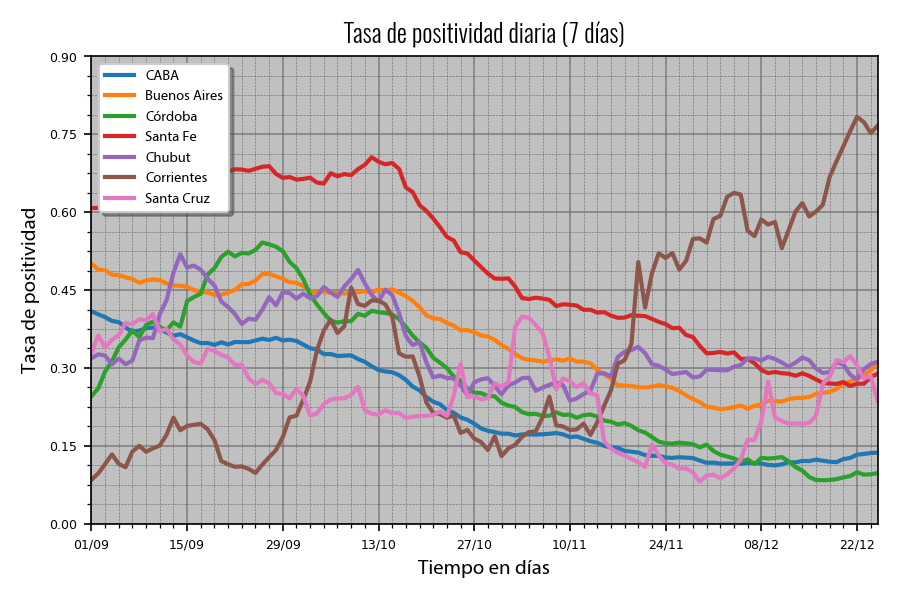
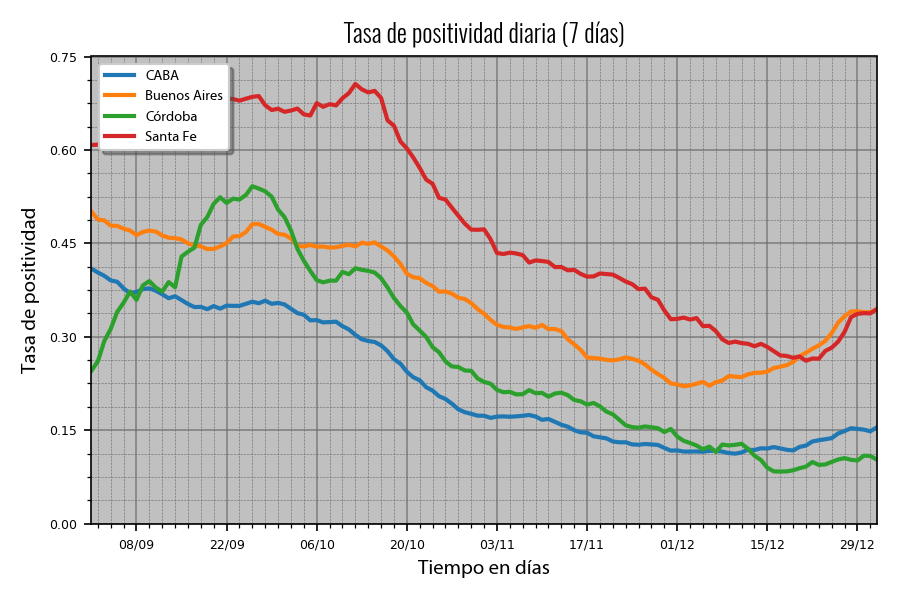
Updating testing charts...

Changed region(s): [[0.0622, 0.09, 0.9956, 0.93], [0.7156, 0.9, 0.7778, 0.93], [0.0622, 0.09, 0.0933, 0.12]]

diff --git a/COVID-19_DataGobAr_TestsAnalysis.py b/COVID-19_DataGobAr_TestsAnalysis.py
@@ -14,7 +14,7 @@ print("https://datos.gob.ar/dataset?q=covid")
 print("-----------------------------------------------")
 print()
 
-regions = ["CABA", "Buenos Aires", "Córdoba", "Santa Fe", "Chubut", "Corrientes", "Santa Cruz"]
+regions = ["CABA", "Buenos Aires", "Córdoba", "Santa Fe"]
 
 fileName = "Covid19Determinaciones.csv"
 fileCompletePath = "Argentina_Data/datos.gob.ar/" + fileName
@@ -22,9 +22,9 @@ chartPath = "Argentina_Data/actual_charts/testing/"
 colorlist = ["orange", "tab:blue", "tab:red", "tab:green"]
 
 dataStartDate = "2020-02-11"
-dataEndDate = "2020-12-26"
+dataEndDate = "2021-01-04"
 wantedStartDate = "2020-09-01"
-wantedEndDate = "2020-12-21"
+wantedEndDate = "2021-01-01"
 dataPeriod = pd.date_range(dataStartDate, dataEndDate)
 plotScale = "linear"
 
